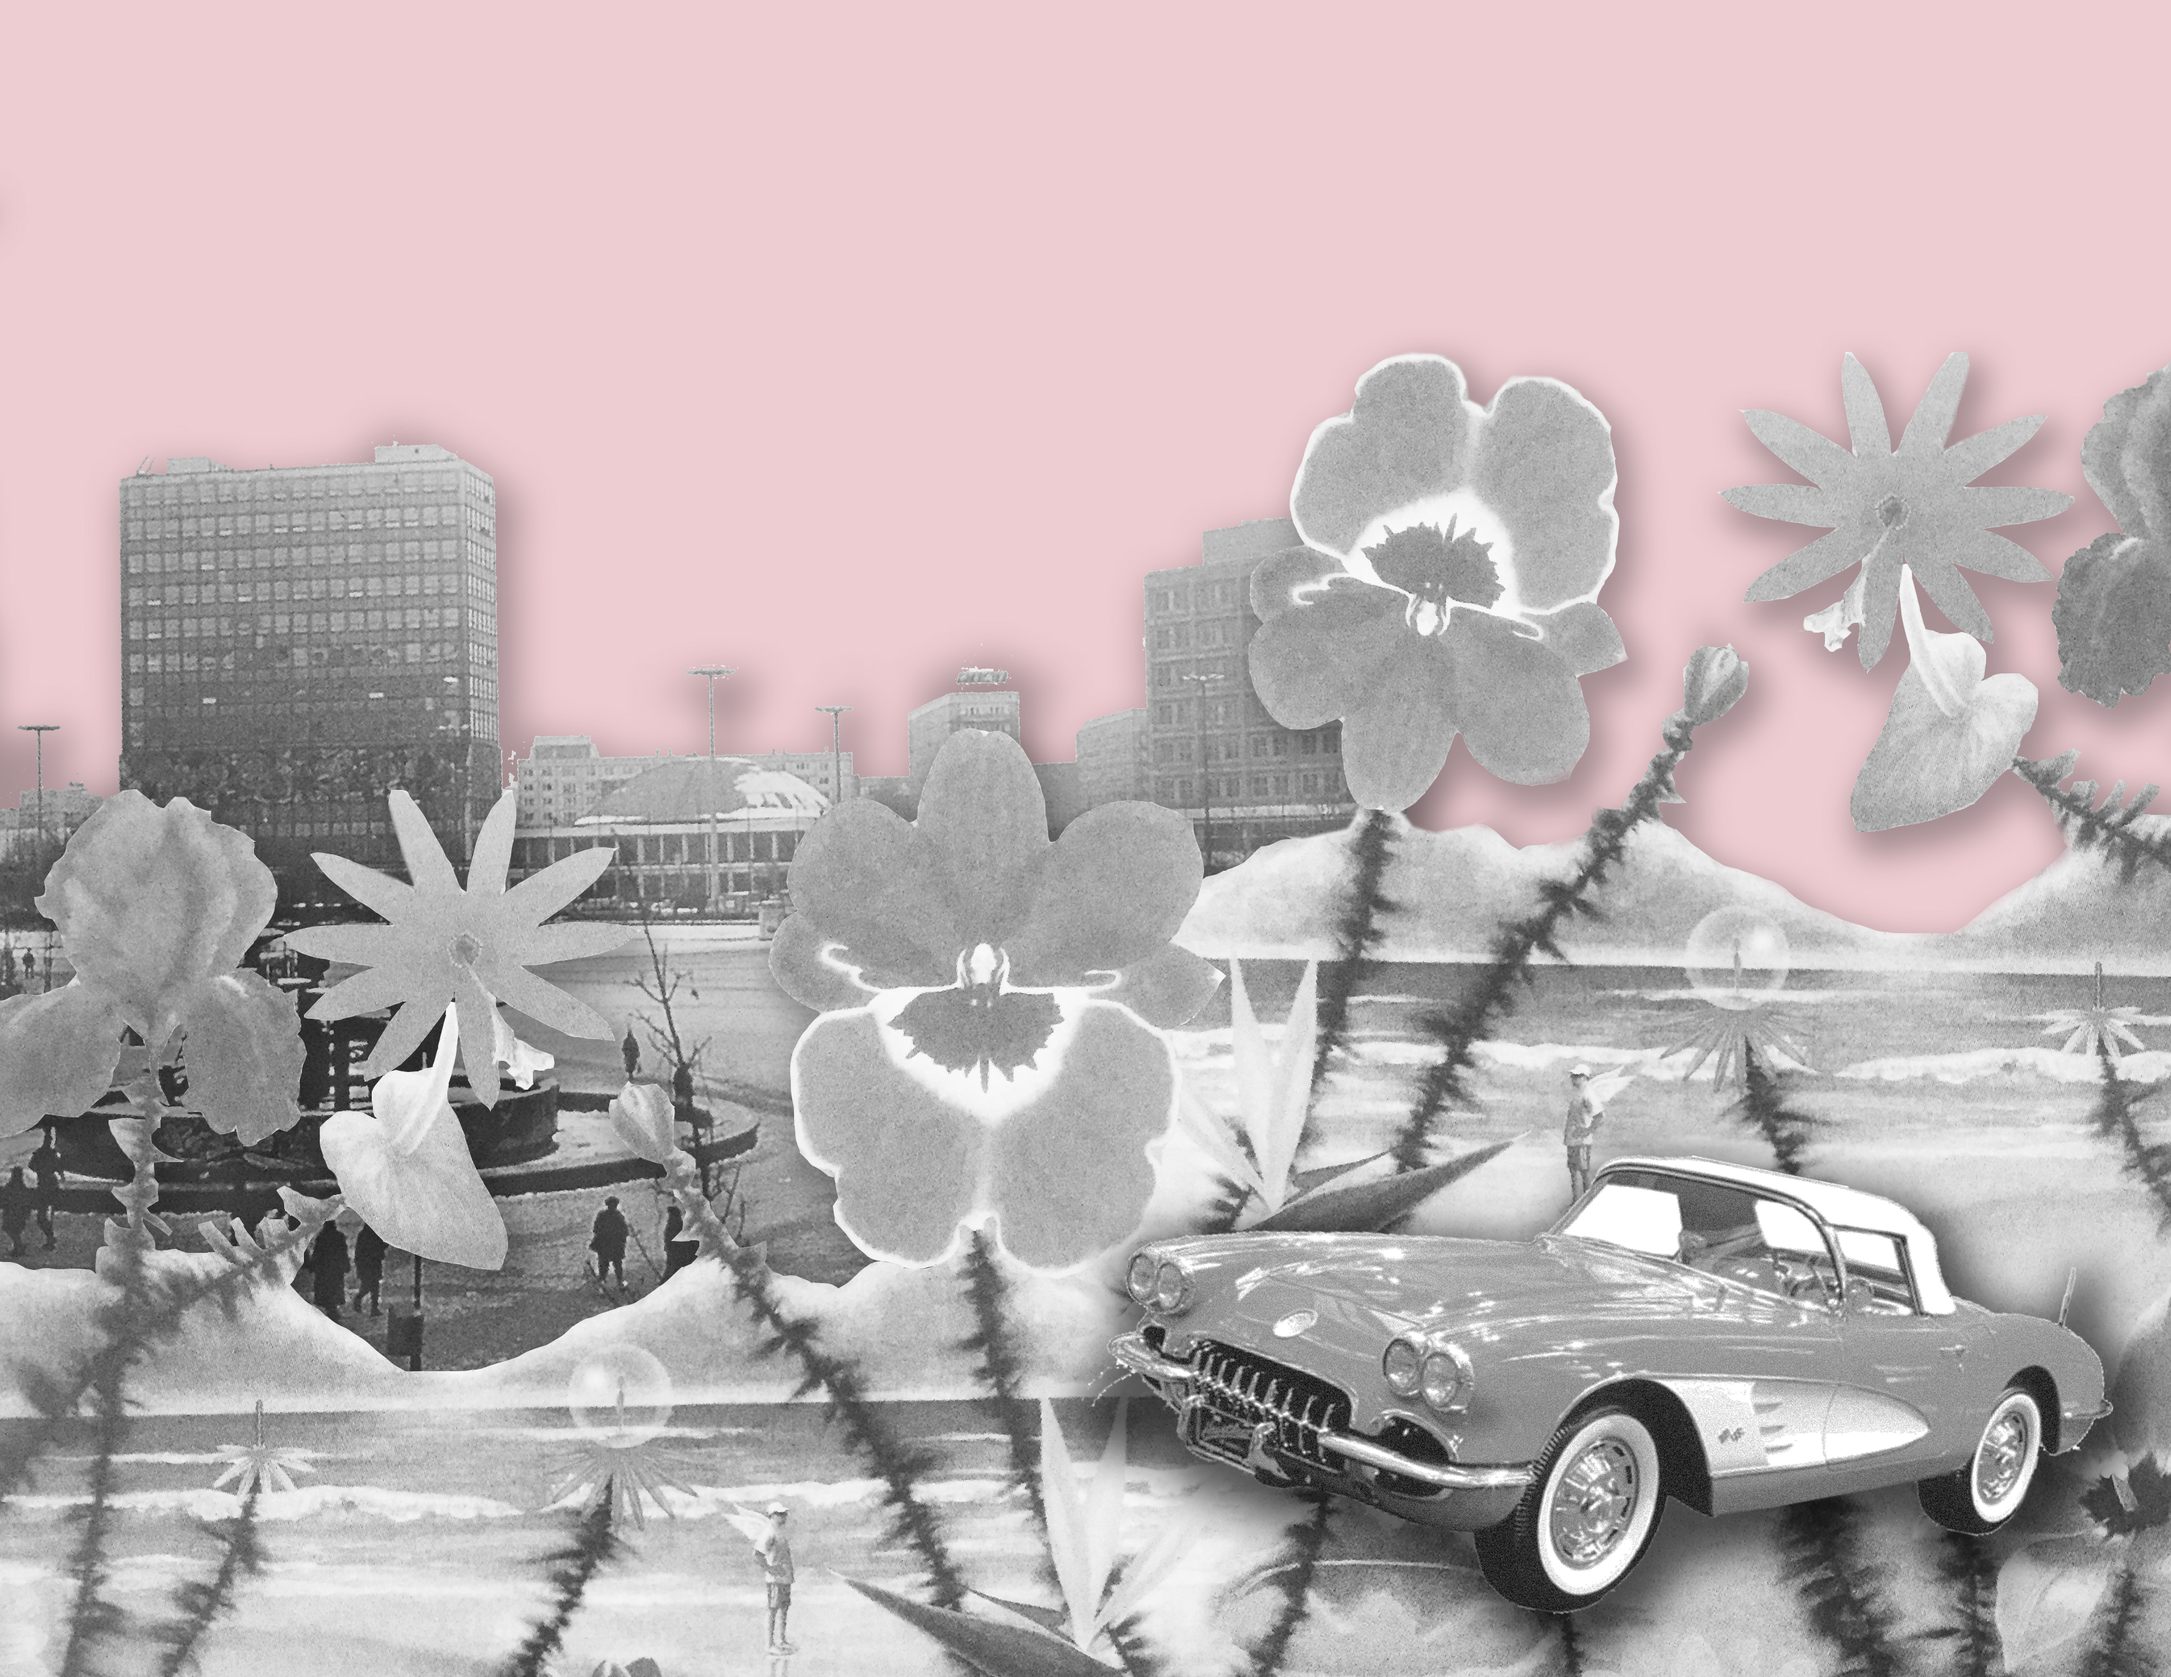
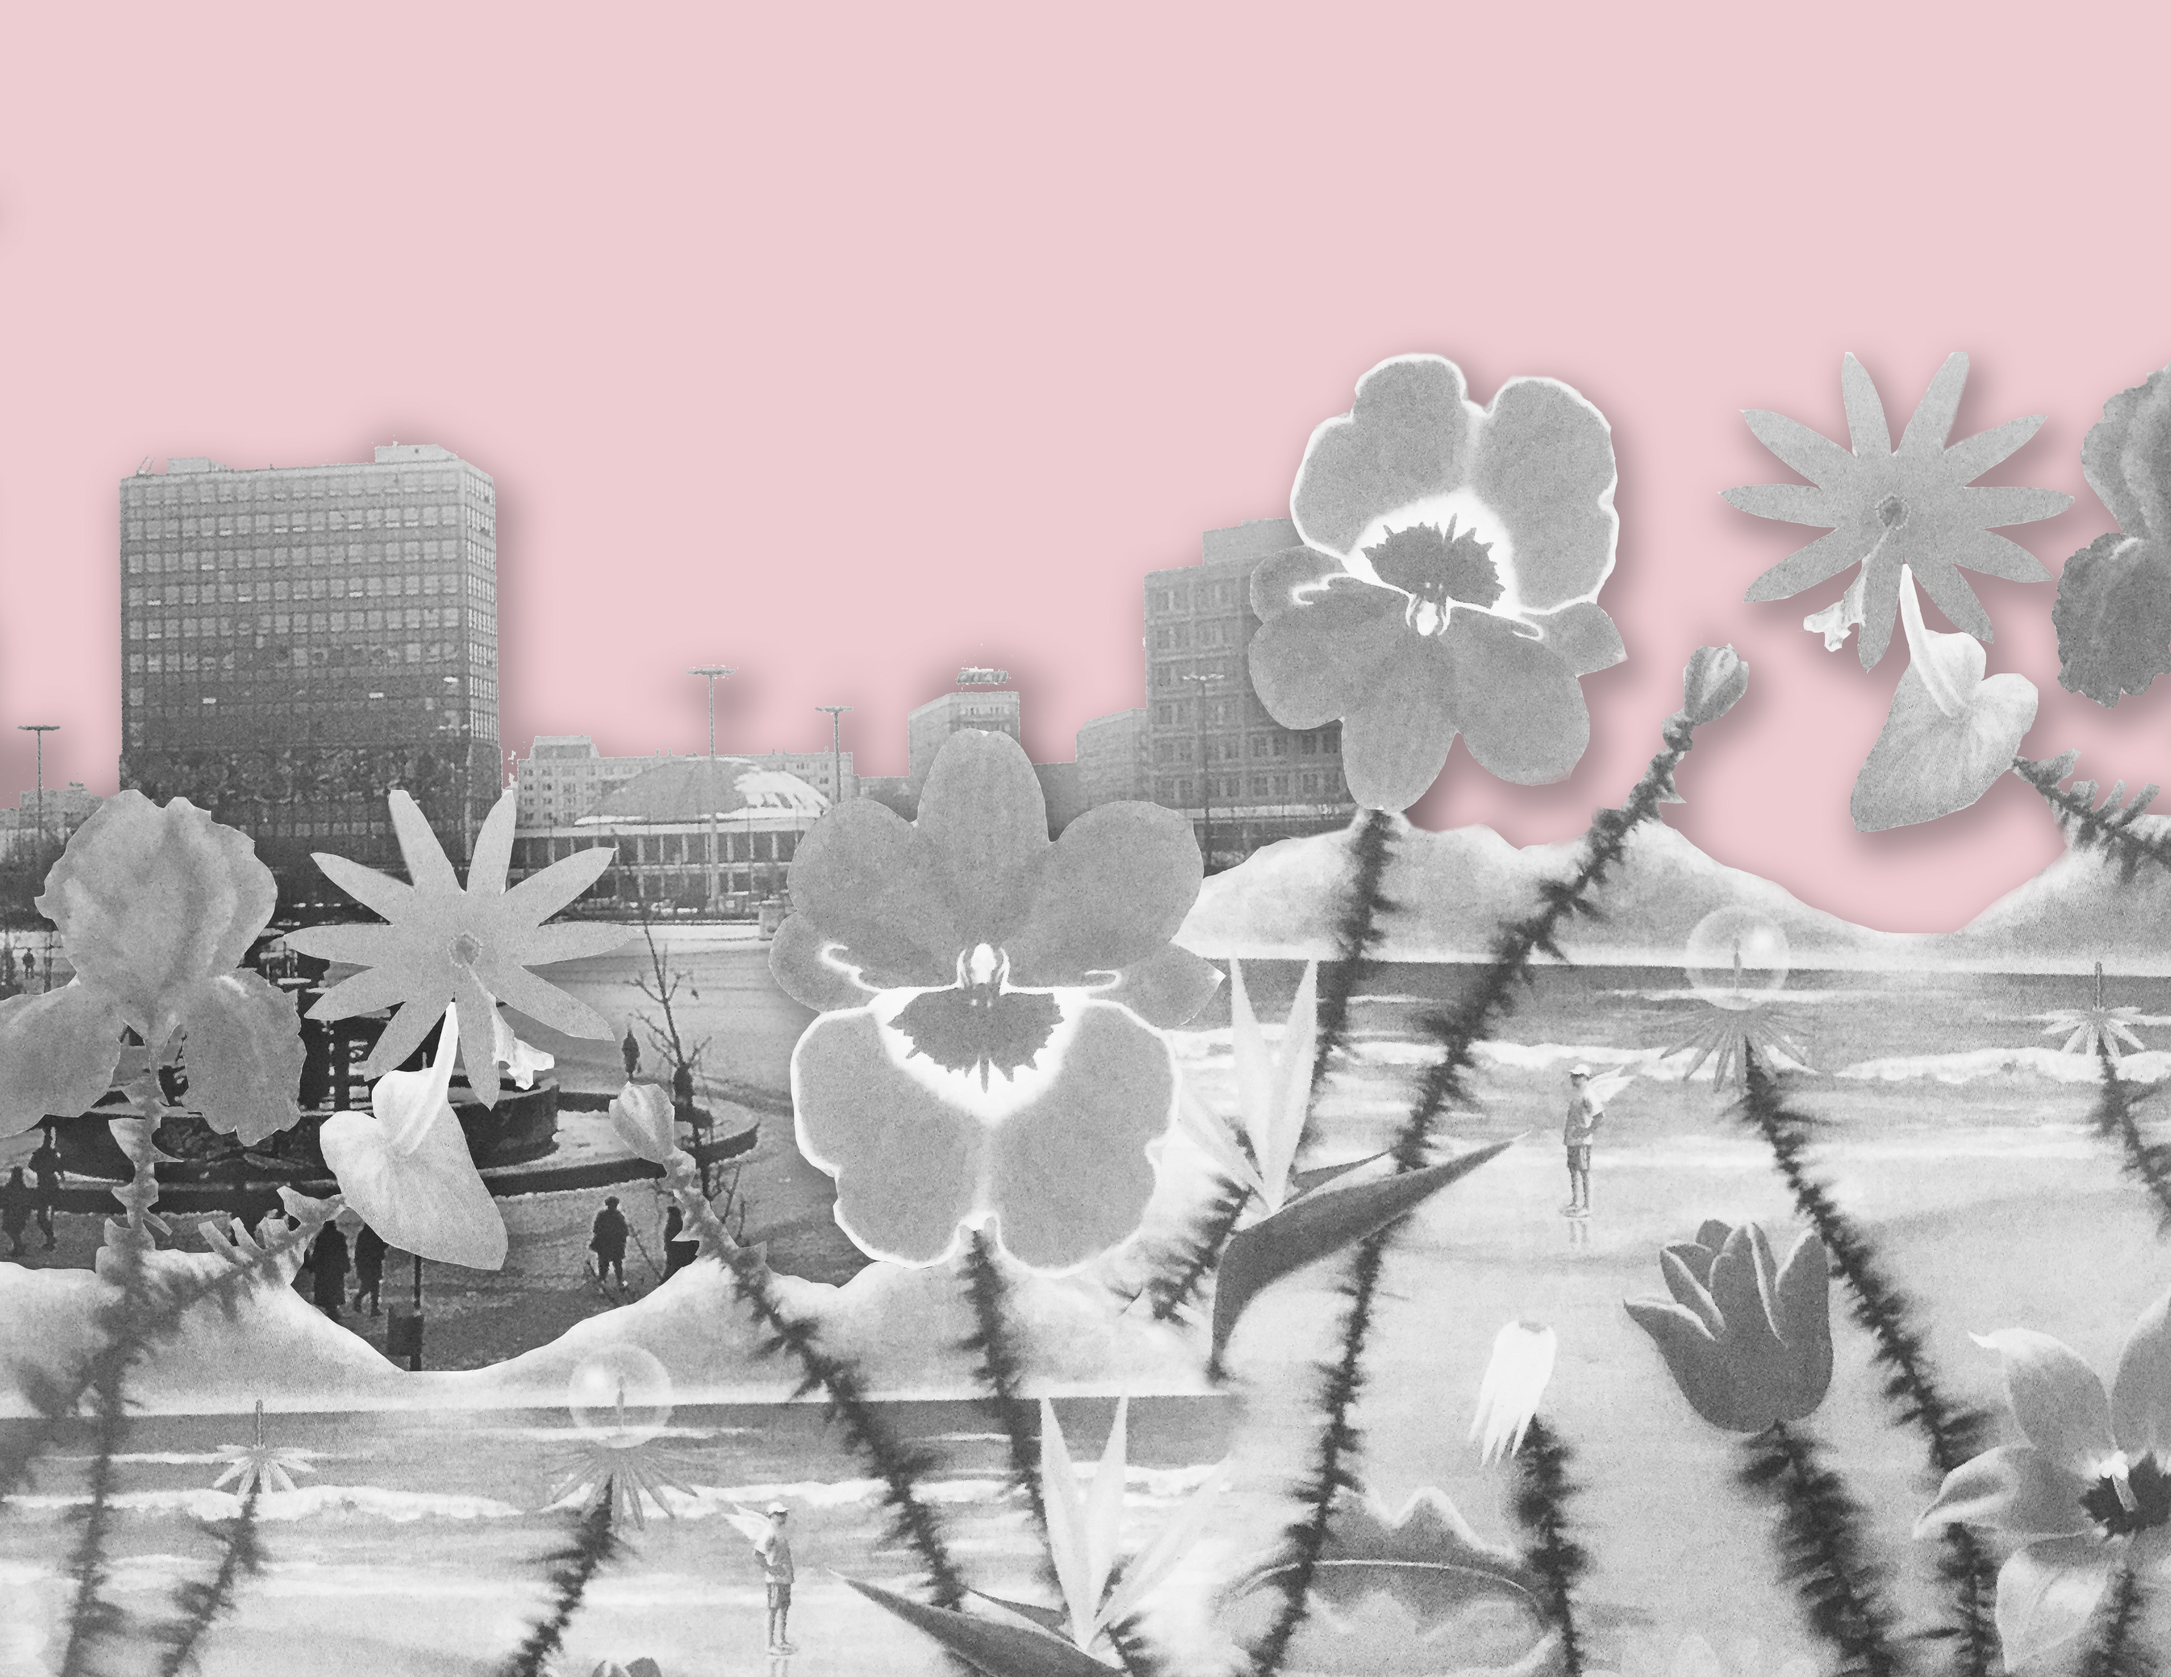
added interaction, fixed pages, details

Changed region(s): [[0.4682, 0.6816, 0.9988, 1.0]]

diff --git a/story/index_paradise.html b/story/index_paradise.html
@@ -1,12 +1,19 @@
 <!DOCTYPE html>
 <html>
+    
     <head>
         <title></title>
          <link rel="stylesheet" type="text/css" href="styles/paradise.css">
+         <script src="https://ajax.googleapis.com/ajax/libs/jquery/1.12.0/jquery.min.js"></script>
+         <script type="text/javascript" src="main.js"></script>
+         
     </head>
     <body>
     <div id="image">
         <img src="images/paradise.jpg"/>
+         <div class="image active">
+            <img class="flip" src="images/car1.png"/>
+        </div>
         <p id="text1">
         The girls' only contact with the outside was through catalogues they<br> 
         ordered that filled their mailbox with pictures of high-end fashions<br> 

diff --git a/story/index_girl4.html b/story/index_girl4.html
@@ -3,10 +3,14 @@
     <head>
         <title></title>
          <link rel="stylesheet" type="text/css" href="styles/girl4.css">
+         <script src="https://ajax.googleapis.com/ajax/libs/jquery/1.12.0/jquery.min.js"></script>
+         <script type="text/javascript" src="main.js"></script>
     </head>
     <body>
-    <div id="image">
-        <img src="images/girl4.jpg"/>
+     <div id="image">
+        <div class="active">
+            <img class="flip" src="images/girl4.jpg"/>
+        </div>
         <p id="text1">
         All to understand those five girls,...<br>
         ..who, after all these years,<br>

diff --git a/story/index_moon.html b/story/index_moon.html
@@ -3,10 +3,14 @@
     <head>
         <title></title>
          <link rel="stylesheet" type="text/css" href="styles/moon.css">
+         <script src="https://ajax.googleapis.com/ajax/libs/jquery/1.12.0/jquery.min.js"></script>
+         <script type="text/javascript" src="main.js"></script>
     </head>
     <body>
-    <div id="image">
-        <img src="images/moon.jpg"/>
+     <div id="image">
+        <div class="active">
+            <img class="flip" src="images/moon.jpg"/>
+        </div>
         <p id="text1">
         The only way we could feel<br>
         close to the girls was<br>

diff --git a/story/index_pieces.html b/story/index_pieces.html
@@ -3,10 +3,14 @@
     <head>
         <title></title>
          <link rel="stylesheet" type="text/css" href="styles/pieces.css">
+          <script src="https://ajax.googleapis.com/ajax/libs/jquery/1.12.0/jquery.min.js"></script>
+         <script type="text/javascript" src="main.js"></script>
     </head>
     <body>
     <div id="image">
-        <img src="images/pieces.jpg"/>
+        <div class="active">
+            <img class="flip" src="images/pieces.jpg"/>
+        </div>
         <p id="text1">
         We had pieces of the puzzle, <br>
         but however we put them <br>

diff --git a/story/index_girl3.html b/story/index_girl3.html
@@ -3,10 +3,15 @@
     <head>
         <title></title>
          <link rel="stylesheet" type="text/css" href="styles/girl3.css">
+         <script src="https://ajax.googleapis.com/ajax/libs/jquery/1.12.0/jquery.min.js"></script>
+         <script type="text/javascript" src="main.js"></script>
     </head>
     <body>
     <div id="image">
-        <img src="images/girl3.jpg"/>
+        <div class="active">
+            <img class="flip" src="images/girl3.jpg"/>
+   </div>
+
         <p id="text1">
         We felt if we looked hard<br>
         enough we might begin to<br>

diff --git a/story/index_girl2.html b/story/index_girl2.html
@@ -3,10 +3,14 @@
     <head>
         <title></title>
          <link rel="stylesheet" type="text/css" href="styles/girl2.css">
+         <script src="https://ajax.googleapis.com/ajax/libs/jquery/1.12.0/jquery.min.js"></script>
+         <script type="text/javascript" src="main.js"></script>
     </head>
     <body>
     <div id="image">
-        <img src="images/girl2.jpg"/>
+        <div class="active">
+            <img class="flip" src="images/girl2.jpg"/>
+        </div>
         <p id="text1">
         Cecilia, the youngest, was 13.<br>
         And Lux was 14.<br>

diff --git a/story/index_girl5.html b/story/index_girl5.html
@@ -3,10 +3,14 @@
     <head>
         <title></title>
          <link rel="stylesheet" type="text/css" href="styles/girl5.css">
+         <script src="https://ajax.googleapis.com/ajax/libs/jquery/1.12.0/jquery.min.js"></script>
+         <script type="text/javascript" src="main.js"></script>
     </head>
     <body>
     <div id="image">
-        <img src="images/girl5.jpg"/>
+        <div class="active">
+            <img class="flip" src="images/girl5.jpg"/>
+        </div>
         <p id="text1">
         It's four o'clock<br> 
         on Sunday afternoon.<br>

diff --git a/story/styles/paradise.css b/story/styles/paradise.css
@@ -1,11 +1,28 @@
 div img {
    display: block;
-   width: 62%;
-   height: 62%;
+   width: 60%;
    margin-left: auto ;
    margin-right: auto ;
   
 }
+.image{
+  z-index: 100
+   display: inline-block;
+   width: 40%;
+   margin-left: 500 ;
+   margin-right: auto ;
+}
+.active {
+    
+        -moz-transform: scaleX(-1);
+        -o-transform: scaleX(-1);
+        -webkit-transform: scaleX(-1);
+        transform: scaleX(-1);
+        filter: FlipH;
+        -ms-filter: "FlipH";
+}
+
+
 #text1 {
   z-index: 100;
   text-align: center;

diff --git a/story/index_girl1.html b/story/index_girl1.html
@@ -3,10 +3,12 @@
     <head>
         <title></title>
          <link rel="stylesheet" type="text/css" href="styles/girl1.css">
+         <script src="https://ajax.googleapis.com/ajax/libs/jquery/1.12.0/jquery.min.js"></script>
+         <script type="text/javascript" src="main.js"></script>
     </head>
     <body>
     <div id="image">
-        <img src="images/girl1.jpg"/>
+        <img class="flip" src="images/girl1.jpg"/>
           <p id="text1">
           For the next few <br>
           weeks we hardly saw <br>

diff --git a/story/styles/girl2.css b/story/styles/girl2.css
@@ -4,6 +4,10 @@ div img {
    margin-left: auto ;
    margin-right: auto ;
   
+}
+
+.active {
+    
         -moz-transform: scaleX(-1);
         -o-transform: scaleX(-1);
         -webkit-transform: scaleX(-1);
@@ -11,6 +15,8 @@ div img {
         filter: FlipH;
         -ms-filter: "FlipH";
 }
+
+
 #text1 {
   z-index: 100;
   text-align: center;
@@ -22,3 +28,4 @@ div img {
   top: 60px;
   
 }
+

diff --git a/story/styles/girl1.css b/story/styles/girl1.css
@@ -4,13 +4,19 @@ div img {
    margin-left: auto ;
    margin-right: auto ;
   
-        -moz-transform: scaleX(-1);
+      
+}
+
+.active {
+      -moz-transform: scaleX(-1);
         -o-transform: scaleX(-1);
         -webkit-transform: scaleX(-1);
         transform: scaleX(-1);
         filter: FlipH;
         -ms-filter: "FlipH";
 }
+
+
 #text1 {
   z-index: 100;
   text-align: center;

diff --git a/story/styles/pieces.css b/story/styles/pieces.css
@@ -7,15 +7,16 @@ div img {
   
 }
 
-.left {
-  float: left; 
-  width:50%;
+.active {
+    
+        -moz-transform: scaleX(-1);
+        -o-transform: scaleX(-1);
+        -webkit-transform: scaleX(-1);
+        transform: scaleX(-1);
+        filter: FlipH;
+        -ms-filter: "FlipH";
 }
 
-.right {
-  float: right; 
-  width:50%;
-}
 
 #text1 {
   z-index: 100;
